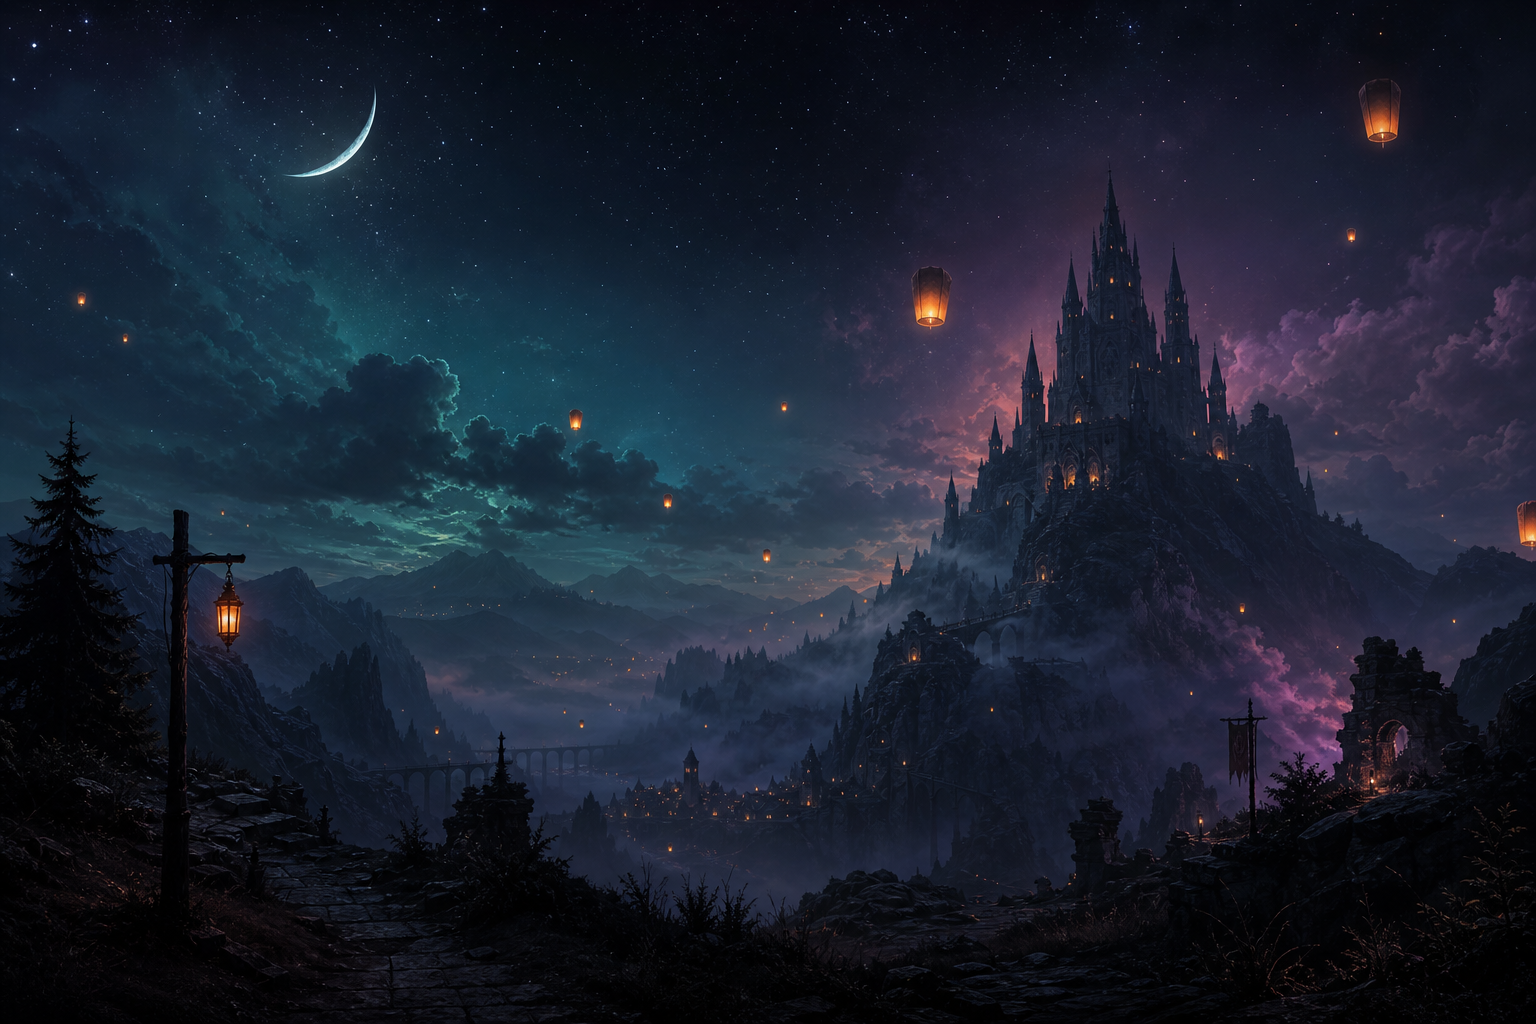
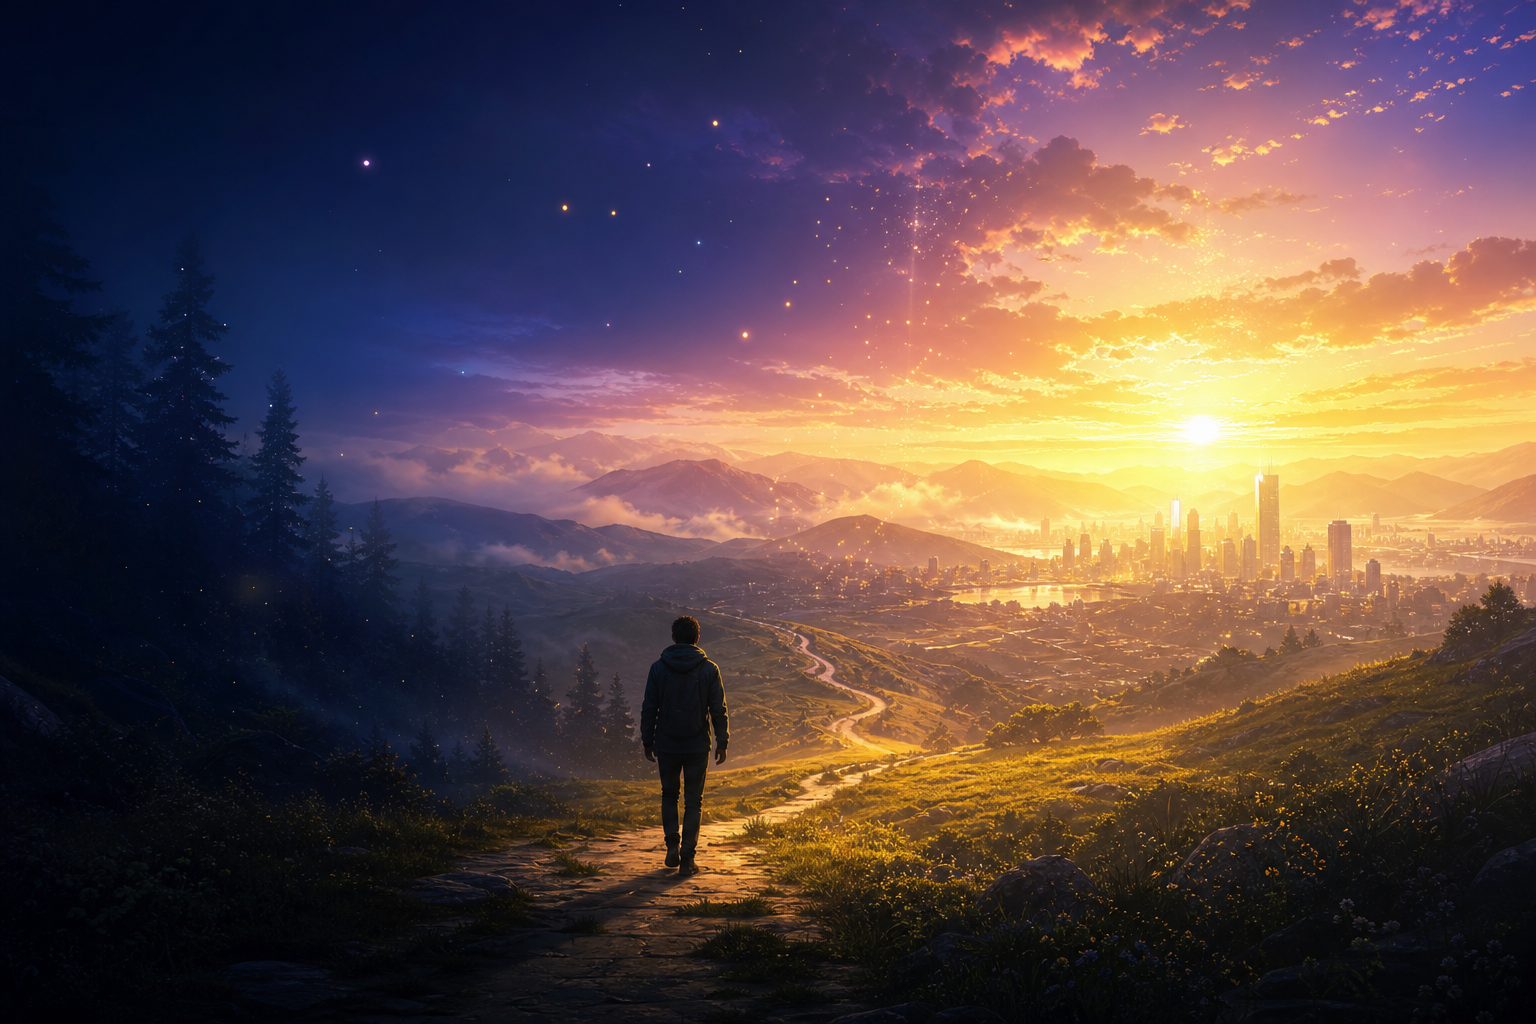
Update LP hero background to brighter dawn journey art.

diff --git a/docs/forge-changelog.md b/docs/forge-changelog.md
@@ -4,6 +4,22 @@
 
 ---
 
+## 2026-06-26 — LP ヒーロー背景を「明るい未来」寄りに差し替え
+
+- **背景** — `public/images/landing/hero-bg.png`（`landing-hero-bg.png` も同期）を夜の城・ランタンから、夜明けの道→光の街へ進むイラストに更新
+- **利用箇所** — LP `/`、Auth レイアウト左ペイン（変更なし・パス同一）
+- **確認** — `/` と `/login` で左テキスト可読性、右側の朝日が過剰に眩しくないか
+
+---
+
+## 2026-06-26 — 本番デプロイ開始（silent verification）
+
+- **main 反映** — `preview/landing-01`（`8110ccf`）を `main` に fast-forward merge & push。Vercel Production ビルド開始
+- **本番 URL** — https://forge-flame-gamma.vercel.app（外部告知なし・オーナー検証用）
+- **次（未実装・記録）** — 問題報告 / Forge FB 用フォームをサイドバーに追加（マネタイズ示唆の収集も想定）
+
+---
+
 ## 2026-06-28 — 本番GO前 P1 修正（catalog / 通知バッジ / settings 保護）
 
 - **catalogReady** — `dataReady` を Supabase 作品 fetch 完了まで false に。`/search` 初回の誤「0件」を防止
